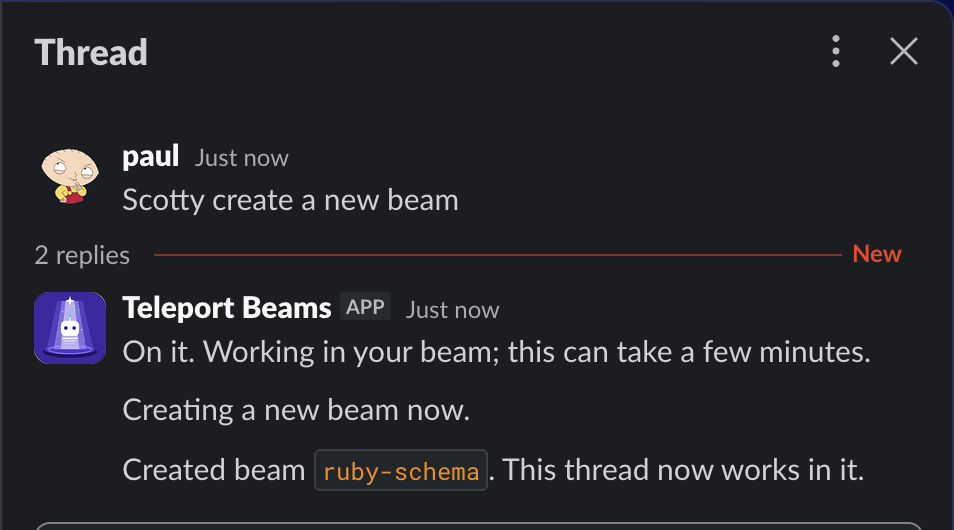
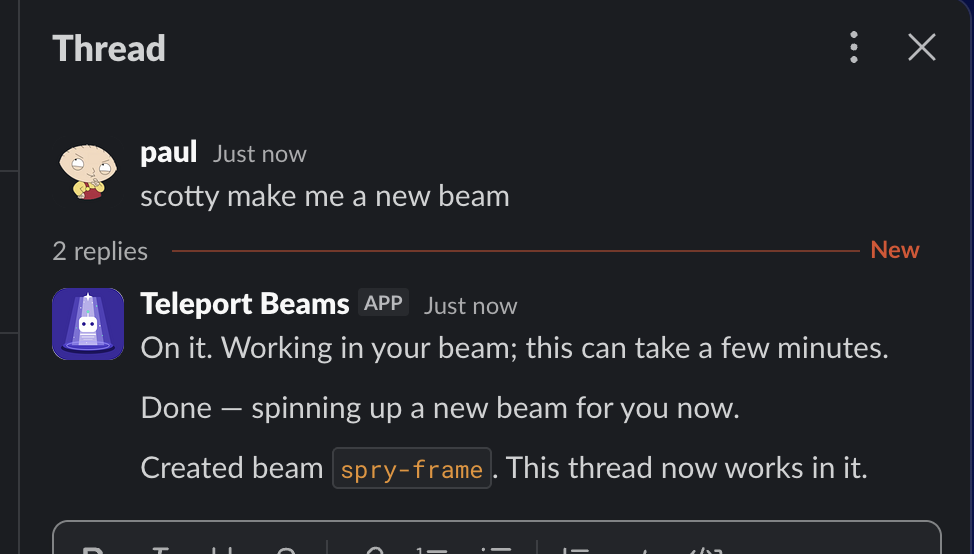
Document self-hosting the Beams Slack plugin image
The plugin image is not publicly pullable. Add README steps to build and
push it to your own registry, have docker-compose.yml read the image from
BEAMS_SLACK_PLUGIN_IMAGE, drop the private GHCR references, and refresh
the create-beam screenshot.

Changed region(s): [[0.0, 0.0, 1.0, 1.0], [0.1824, 0.4226, 0.9423, 0.5132], [0.8512, 0.0604, 0.8816, 0.1208]]

diff --git a/beams-slack-plugin/README.md b/beams-slack-plugin/README.md
@@ -198,7 +198,28 @@ The bot's icon is [`assets/slack-beams-bot.png`](assets/slack-beams-bot.png), a
 5. Click **Save Changes**. The new icon appears on Scotty's messages and
    profile within a few minutes. No reinstall is needed for the icon.
 
-### 3. Run it
+### 3. Build and host the image
+
+The plugin image is not published publicly, so build it yourself and put it
+in a registry your Docker host can pull from (or build it on that host).
+From this directory:
+
+```sh
+docker build --platform linux/amd64 -t <registry>/beams-slack-plugin:latest .
+docker push <registry>/beams-slack-plugin:latest
+```
+
+The build clones Teleport, applies `teleport.patch`, and bundles `tsh`, so it
+takes a while. Then tell Compose which image to run:
+
+```sh
+export BEAMS_SLACK_PLUGIN_IMAGE=<registry>/beams-slack-plugin:latest
+```
+
+`docker-compose.yml` refuses to start without it. You can also put the value
+in a `.env` file next to `docker-compose.yml`.
+
+### 4. Run it
 
 From a directory containing this repo's `docker-compose.yml`, `tbot.yaml`,
 your `config.toml`, and a `secrets/` directory:
@@ -218,18 +239,18 @@ The stack has three services:
   `tbot` renews from the `tbot-state` volume afterwards. If that volume is
   lost, or `tbot` is down longer than its 1 hour certificate, create a new
   instance token.
-- `teleport-slack` is the plugin, from
-  `ghcr.io/geekvoice408/beams-slack-plugin:latest`. `secrets/` is mounted at
+- `teleport-slack` is the plugin, running the image you built and set in
+  `BEAMS_SLACK_PLUGIN_IMAGE`. `secrets/` is mounted at
   `/var/lib/teleport/plugins/slack`, and per-user state lives in the external
   `beams-profiles` volume.
 
-To deploy a new image:
+To deploy a new image, build and push it again, then:
 
 ```sh
 docker compose pull teleport-slack && docker compose up -d --no-deps teleport-slack
 ```
 
-### 4. Configuration
+### 5. Configuration
 
 Start from `config.toml.example`. The Beams settings:
 
@@ -286,10 +307,14 @@ Main files under `integrations/access/slack/`:
 
 ## Container builds
 
-`.github/workflows/beams-slack-plugin-container.yml` builds pull requests and
-publishes `main` to `ghcr.io/geekvoice408/beams-slack-plugin` with tags
-`latest`, `main`, and `sha-<commit>`. The image bundles `tsh` 18.11.3;
-override the `TSH_VERSION` build argument when the tenant is upgraded.
+The original repository has a GitHub Actions workflow
+(`.github/workflows/beams-slack-plugin-container.yml`) that builds pull
+requests and pushes `main` to a private GitHub Container Registry package with
+tags `latest`, `main`, and `sha-<commit>`. That package is not publicly
+accessible, so use your own registry as described in
+[Build and host the image](#3-build-and-host-the-image). The image bundles
+`tsh` 18.11.3; override the `TSH_VERSION` build argument when the tenant is
+upgraded.
 
 ## Versions
 

diff --git a/beams-slack-plugin/MEMORY.md b/beams-slack-plugin/MEMORY.md
@@ -32,8 +32,11 @@ beam); beam-list questions skip Claude.
   `beams-slack-plugin/`, branch `main`.
 - `teleport.patch` is the full diff against `gravitational/teleport`
   `v18.11.1`. CI clones Teleport at that tag, applies the patch, builds
-  `teleport-slack`, bundles `tsh` 18.11.3, and pushes
-  `ghcr.io/geekvoice408/beams-slack-plugin:{latest,main,sha-<commit>}`.
+  `teleport-slack`, bundles `tsh` 18.11.3, and pushes tags `latest`, `main`,
+  and `sha-<commit>` to a private GitHub Container Registry package. The
+  image is not publicly pullable; anyone else must build and host it
+  themselves (README "Build and host the image"). The repo's
+  `docker-compose.yml` reads the image from `BEAMS_SLACK_PLUGIN_IMAGE`.
 - Edit workflow: a throwaway `git worktree` of a local Teleport clone at
   `v18.11.1`, `git apply` the patch, `git add -N .`, edit, test, then
   regenerate with `git diff --binary v18.11.1 --output=.../teleport.patch`.
